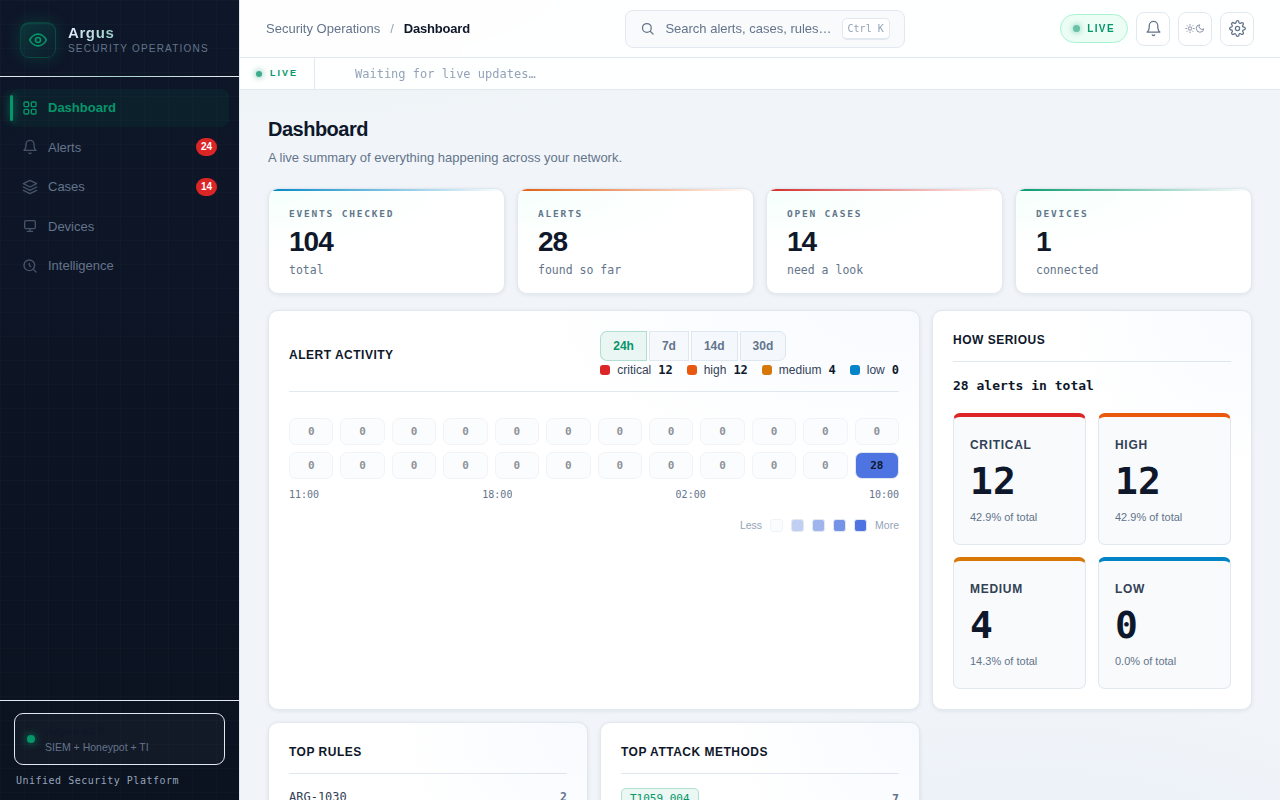
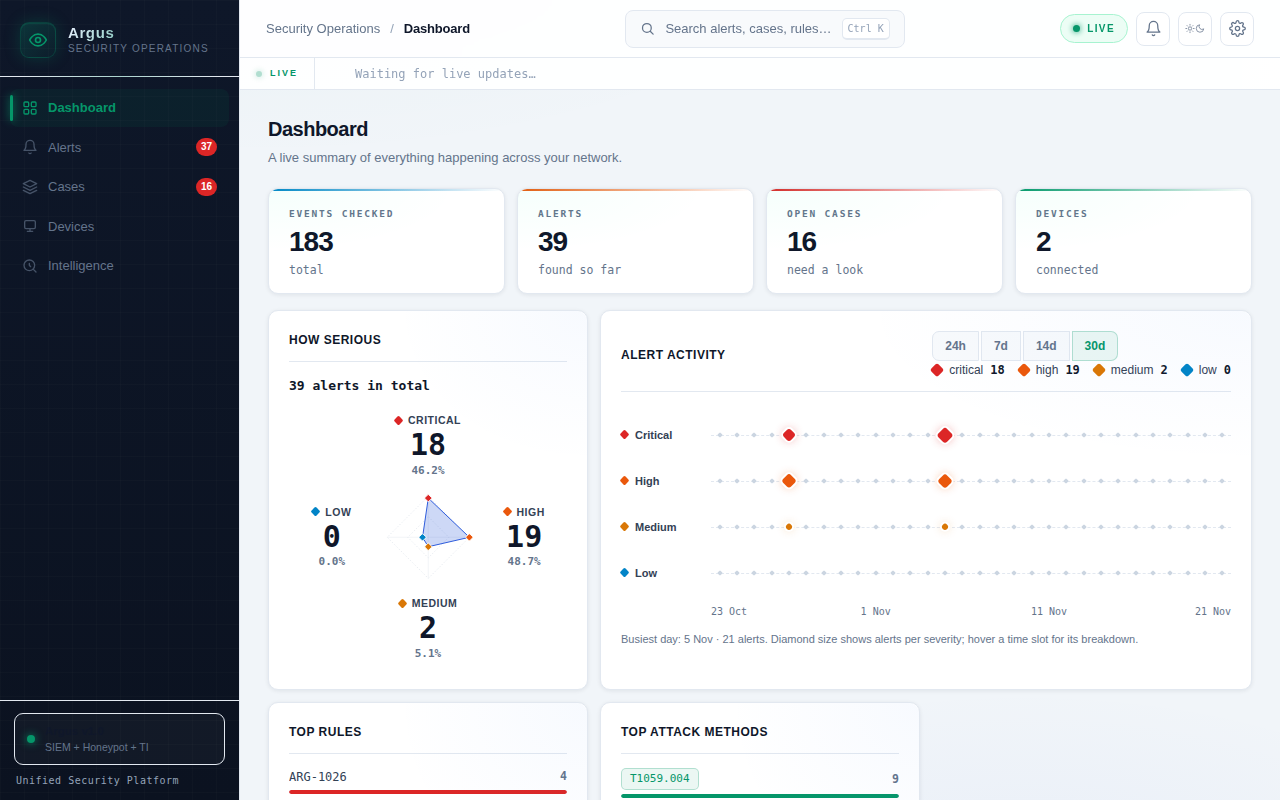
Dashboard round 3: severity kite + swimlane activity chart
How serious is now a four-axis kite (diamond radar, one severity per
corner, click a corner to filter Alerts). Alert activity is now four
severity swimlanes with diamond markers sized by count, 24h/7d/14d/30d
ranges, busiest-bucket note. Replaces the rejected donut/area, rows/
columns and tiles/heatmap designs. Verified live at 1280px, light and
dark themes, no overlap; 17/17 tests green. Fresh overview screenshot.

diff --git a/dashboard/app.js b/dashboard/app.js
@@ -270,26 +270,74 @@ async function ensureRules() {
 }
 
 /* ---------------- OVERVIEW ---------------- */
-function renderDonut(bySev) {
-  const total = SEV_ORDER.reduce((t, k) => t + (bySev[k] || 0), 0);
-  // 42x42 viewBox: circle r=15.9155 has circumference exactly 100,
-  // so dasharray percentages map 1:1 to arc fractions.
-  let offset = 25, circles = '';
-  for (const k of SEV_ORDER) {
-    const frac = total ? ((bySev[k] || 0) / total) * 100 : 0;
-    if (frac > 0.01) {
-      circles += `<circle cx="21" cy="21" r="15.9155" fill="none" stroke="${SEV_COLOR[k]}" ` +
-        `stroke-width="5" stroke-linecap="round" stroke-dasharray="${frac.toFixed(2)} 100" stroke-dashoffset="${offset.toFixed(2)}"/>`;
-    }
-    offset -= frac;
-  }
-  $('donutWrap').innerHTML =
-    `<svg viewBox="0 0 42 42" width="190" height="190" role="img" aria-label="${total} alerts">${circles}` +
-    `<text x="21" y="20.5" text-anchor="middle" class="donut-center" font-size="8.5">${total}</text>` +
-    `<text x="21" y="26.5" text-anchor="middle" class="donut-sub" font-size="3">ALERTS</text></svg>`;
-  $('donutLegend').innerHTML = SEV_ORDER.map((k) =>
-    `<span class="legend-item"><span class="legend-swatch" style="background:${SEV_COLOR[k]};color:${SEV_COLOR[k]}"></span>` +
-    `${k}<span class="legend-count">${bySev[k] || 0}</span></span>`).join('');
+/* Severity kite: four-axis diamond radar, one severity per corner. */
+function renderSeverityKite(bySev) {
+  const counts = {};
+  const total = SEV_ORDER.reduce((sum, key) => {
+    counts[key] = Math.max(0, Number(bySev[key]) || 0);
+    return sum + counts[key];
+  }, 0);
+  $('severityTotal').textContent = `${total} alerts in total`;
+
+  const R = 90;
+  const maxCount = Math.max(1, ...SEV_ORDER.map((k) => counts[k]));
+  const dir = { critical: [0, -1], high: [1, 0], medium: [0, 1], low: [-1, 0] };
+  const area = { critical: 'top', high: 'right', medium: 'bottom', low: 'left' };
+  const radius = (k) => R * (total ? 0.14 + 0.86 * (counts[k] / maxCount) : 0.14);
+  const pts = SEV_ORDER.map((k) => {
+    const r = radius(k);
+    return [dir[k][0] * r, dir[k][1] * r];
+  });
+  const poly = pts.map((p) => `${p[0].toFixed(1)},${p[1].toFixed(1)}`).join(' ');
+  const guide = (f) => {
+    const r = (R * f).toFixed(1);
+    return `0,-${r} ${r},0 0,${r} -${r},0`;
+  };
+  const vertices = SEV_ORDER.map((k, i) =>
+    `<g transform="translate(${pts[i][0].toFixed(1)} ${pts[i][1].toFixed(1)})">` +
+    `<rect class="kite-vertex kv-${k}" x="-6" y="-6" width="12" height="12" rx="2" fill="${SEV_COLOR[k]}"></rect></g>`
+  ).join('');
+
+  const svg = `
+    <svg class="kite-svg" viewBox="-108 -108 216 216" aria-hidden="true" focusable="false">
+      <polygon class="kite-guide" points="${guide(1)}"></polygon>
+      <polygon class="kite-guide" points="${guide(0.5)}"></polygon>
+      <path class="kite-axis" d="M0 -${R}V${R}M-${R} 0H${R}"></path>
+
+      <polygon class="kite-shape" points="${poly}"></polygon>
+      ${vertices}
+    </svg>`;
+
+  const buttons = SEV_ORDER.map((key) => {
+    const count = counts[key];
+    const pct = total ? (count / total) * 100 : 0;
+    const label = key.charAt(0).toUpperCase() + key.slice(1);
+    return `
+      <button type="button" class="sev-pt sev-pt-${area[key]}" data-severity="${key}"
+        style="--sev-c:${SEV_COLOR[key]}"
+        aria-label="${label}: ${count} alerts, ${pct.toFixed(1)} percent of total">
+        <span class="sev-pt-name"><span class="sev-pt-key"></span>${label}</span>
+        <span class="sev-pt-count">${count}</span>
+        <span class="sev-pt-pct">${pct.toFixed(1)}%</span>
+      </button>`;
+  }).join('');
+
+  const host = $('severityRows');
+  host.removeAttribute('data-active');
+  host.innerHTML = svg + buttons;
+  host.querySelectorAll('.sev-pt').forEach((btn) => {
+    const on = () => host.setAttribute('data-active', btn.dataset.severity);
+    const off = () => host.removeAttribute('data-active');
+    btn.addEventListener('pointerenter', on);
+    btn.addEventListener('pointerleave', off);
+    btn.addEventListener('focus', on);
+    btn.addEventListener('blur', off);
+    btn.addEventListener('click', () => {
+      $('alertSevFilter').value = btn.dataset.severity;
+      showView('alerts');
+    });
+
+  });
 }
 
 /* Animate stat numbers counting up from 0 on each overview load. */
@@ -326,7 +374,7 @@ async function loadOverview() {
   document.querySelectorAll('#statGrid .stat-card[data-goto]').forEach((el) =>
     el.addEventListener('click', () => showView(el.dataset.goto)));
 
-  renderDonut(kvList(stats.by_severity));
+  renderSeverityKite(kvList(stats.by_severity));
 
   const ruleEntries = Object.entries(kvList(stats.by_rule)).sort((a, b) => b[1] - a[1]).slice(0, 8);
   const maxR = (ruleEntries[0] && ruleEntries[0][1]) || 1;
@@ -360,9 +408,9 @@ async function loadOverview() {
 }
 LOADERS.overview = loadOverview;
 
-/* Stacked area chart: alert volume stacked by severity.
-   days=1 -> hourly buckets (24h); otherwise daily buckets. Uses theme-aware
-   .chart-* classes so the dark theme can recolor gridlines and ticks. */
+/* Swimlane activity chart: one lane per severity, one diamond per bucket,
+   diamond size = alerts of that severity in that bucket.
+   days=1 -> 24 hourly buckets; otherwise daily buckets. */
 function renderActivityChart(alerts, days) {
   days = days || 14;
   const hourly = days === 1;
@@ -370,16 +418,29 @@ function renderActivityChart(alerts, days) {
   const now = new Date();
   const starts = [];
   if (hourly) {
-    const h = new Date(now); h.setMinutes(0, 0, 0);
-    for (let i = N - 1; i >= 0; i--) { const d = new Date(h); d.setHours(d.getHours() - i); starts.push(d); }
+    const h = new Date(now);
+    h.setMinutes(0, 0, 0);
+    for (let i = N - 1; i >= 0; i--) {
+      const d = new Date(h);
+      d.setHours(d.getHours() - i);
+      starts.push(d);
+    }
   } else {
-    const d0 = new Date(now); d0.setHours(0, 0, 0, 0);
-    for (let i = N - 1; i >= 0; i--) { const d = new Date(d0); d.setDate(d.getDate() - i); starts.push(d); }
+    const d0 = new Date(now);
+    d0.setHours(0, 0, 0, 0);
+    for (let i = N - 1; i >= 0; i--) {
+      const d = new Date(d0);
+      d.setDate(d.getDate() - i);
+      starts.push(d);
+    }
   }
   const spanMs = hourly ? 3600000 : 86400000;
-  const buckets = starts.map(() => ({ critical: 0, high: 0, medium: 0, low: 0 }));
+  const buckets = starts.map(() => ({
+    critical: 0, high: 0, medium: 0, low: 0
+  }));
   for (const a of (alerts || [])) {
     const t = new Date(a.ts);
+
     if (isNaN(t) || !(a.severity in buckets[0])) continue;
     const idx = Math.floor((t - starts[0]) / spanMs);
     if (idx >= 0 && idx < N) buckets[idx][a.severity]++;
@@ -387,42 +448,69 @@ function renderActivityChart(alerts, days) {
   const totals = buckets.map((b) => b.critical + b.high + b.medium + b.low);
   const grand = totals.reduce((s, v) => s + v, 0);
   const sevTotals = {};
-  for (const s of SEV_ORDER) sevTotals[s] = buckets.reduce((t, b) => t + b[s], 0);
+  for (const s of SEV_ORDER) {
+    sevTotals[s] = buckets.reduce((t, b) => t + b[s], 0);
+  }
   $('activityLegend').innerHTML = SEV_ORDER.map((s) =>
     `<span class="legend-item"><span class="legend-swatch" style="background:${SEV_COLOR[s]}"></span>` +
-    `${s}<span class="legend-count">${sevTotals[s]}</span></span>`).join('');
-  if (!grand) { $('activityChart').innerHTML = `<div class="empty">No alerts in the last ${hourly ? '24 hours' : days + ' days'}.</div>`; return; }
+    `${s}<span class="legend-count">${sevTotals[s]}</span></span>`
+  ).join('');
+  if (!grand) {
+    $('activityChart').innerHTML =
+      `<div class="empty">No alerts in the last ${hourly ? '24 hours' : days + ' days'}.</div>`;
+    return;
+  }
 
-  const W = 760, H = 290, L = 38, R = 14, T = 12, B = 30;
-  const iw = W - L - R, ih = H - T - B;
-  const maxV = Math.max(4, ...totals);
-  const X = (i) => L + ((i + 0.5) / N) * iw;
-  const Y = (v) => T + ih - (v / maxV) * ih;
-  const MON = ['Jan', 'Feb', 'Mar', 'Apr', 'May', 'Jun', 'Jul', 'Aug', 'Sep', 'Oct', 'Nov', 'Dec'];
+  const MON = ['Jan','Feb','Mar','Apr','May','Jun','Jul','Aug','Sep','Oct','Nov','Dec'];
   const label = (d) => hourly
     ? `${String(d.getHours()).padStart(2, '0')}:00`
     : `${d.getDate()} ${MON[d.getMonth()]}`;
-  const every = hourly ? 4 : (N > 20 ? 5 : N > 10 ? 2 : 1);
-  let svg = `<svg viewBox="0 0 ${W} ${H}" role="img" aria-label="Alert volume by severity">`;
-  for (let i = 0; i <= 4; i++) {
-    const v = Math.round(maxV * i / 4), yy = Y(v).toFixed(1);
-    svg += `<line class="chart-gridline" x1="${L}" y1="${yy}" x2="${W - R}" y2="${yy}"/>` +
-      `<text class="chart-tick" x="${L - 8}" y="${+yy + 4}" text-anchor="end">${v}</text>`;
-  }
-  starts.forEach((d, i) => {
-    if (i % every === 0) svg += `<text class="chart-xlabel" x="${X(i).toFixed(1)}" y="${H - 8}" text-anchor="middle">${label(d)}</text>`;
-  });
-  let cum = new Array(N).fill(0);
-  for (const sev of ['low', 'medium', 'high', 'critical']) {
-    const nc = buckets.map((b, i) => cum[i] + b[sev]);
-    const top = nc.map((v, i) => `${X(i).toFixed(1)},${Y(v).toFixed(1)}`).join(' ');
-    const bot = cum.map((v, i) => `${X(i).toFixed(1)},${Y(v).toFixed(1)}`).reverse().join(' ');
-    svg += `<polygon points="${top} ${bot}" fill="${SEV_COLOR[sev]}" fill-opacity="0.78"><title>${sev}: ${sevTotals[sev]}</title></polygon>`;
-    cum = nc;
-  }
-  svg += `<path class="chart-total-line" d="${cum.map((v, i) => `${i ? 'L' : 'M'}${X(i).toFixed(1)},${Y(v).toFixed(1)}`).join(' ')}" fill="none"/>`;
-  svg += '</svg>';
-  $('activityChart').innerHTML = svg;
+  const maxCell = Math.max(1, ...buckets.map((b) => Math.max(b.critical, b.high, b.medium, b.low)));
+  const maxTotal = Math.max(...totals);
+  const peakIdx = totals.indexOf(maxTotal);
+
+  const hits = buckets.map((bucket, i) => {
+    const breakdown = SEV_ORDER.filter((s) => bucket[s] > 0).map((s) => `${bucket[s]} ${s}`).join(', ');
+    const tip = `${label(starts[i])}: ${totals[i]} alerts` + (breakdown ? ` (${breakdown})` : '');
+    return `<div class="swim-hit" style="left:${(i / N * 100).toFixed(3)}%;width:${(100 / N).toFixed(3)}%"
+
+      role="img" aria-label="${tip}" title="${tip}"></div>`;
+  }).join('');
+
+  const lanes = SEV_ORDER.map((s) => {
+    const marks = buckets.map((bucket, i) => {
+      const v = bucket[s];
+      const left = ((i + 0.5) / N * 100).toFixed(3);
+      if (!v) return `<div class="swim-empty" style="left:${left}%"></div>`;
+      const f = (0.35 + 0.65 * Math.sqrt(v / maxCell)).toFixed(3);
+      return `<div class="swim-mark" style="left:${left}%;--f:${f};--sev:${SEV_COLOR[s]}"></div>`;
+    }).join('');
+    return `<div class="swim-lane">${marks}</div>`;
+  }).join('');
+
+  const names = SEV_ORDER.map((s) =>
+    `<div class="swim-name"><span class="swim-key" style="background:${SEV_COLOR[s]}"></span>${s}</div>`
+  ).join('');
+
+  const labelIndices = [...new Set([0, Math.floor((N - 1) / 3), Math.floor((N - 1) * 2 / 3), N - 1])];
+  const ticks = labelIndices.map((i, k) => {
+    if (k === 0) return `<span class="swim-tick is-first">${label(starts[i])}</span>`;
+    if (k === labelIndices.length - 1) return `<span class="swim-tick is-last">${label(starts[i])}</span>`;
+    return `<span class="swim-tick" style="left:${((i + 0.5) / N * 100).toFixed(3)}%">${label(starts[i])}</span>`;
+  }).join('');
+
+  $('activityChart').innerHTML = `
+    <div class="swim">
+      <div class="swim-names">${names}</div>
+      <div class="swim-plot" style="--n:${N}">
+        <div class="swim-hits">${hits}</div>
+        ${lanes}
+      </div>
+
+      <div class="swim-axis">${ticks}</div>
+      <div class="swim-note">Busiest ${hourly ? 'hour' : 'day'}: ${label(starts[peakIdx])} &middot; ${maxTotal} alerts. Diamond size shows alerts per severity; hover a time slot for its breakdown.</div>
+    </div>
+  `;
 }
 
 /* ---------------- ALERTS ---------------- */
@@ -1026,7 +1114,7 @@ function paintSkeletons(view) {
     if (view === 'overview') {
       $('statGrid').innerHTML = sk('sk-stat', 4);
       $('activityChart').innerHTML = '<div class="skeleton sk-panel"></div>';
-      $('donutWrap').innerHTML = ''; $('donutLegend').innerHTML = '';
+      $('severityRows').innerHTML = ''; $('severityTotal').textContent = '0 alerts in total';
       $('topRules').innerHTML = sk('sk-row', 6); $('topMitre').innerHTML = sk('sk-row', 6);
     } else if (view === 'alerts') {
       $('alertsBody').innerHTML = skRows(8);

diff --git a/dashboard/styles.css b/dashboard/styles.css
@@ -376,6 +376,61 @@ body {
 .donut-center { font-family: var(--font); font-weight: 800; fill: var(--text); }
 .donut-sub { font-family: var(--font); font-weight: 700; fill: var(--faint); letter-spacing: 2px; }
 .donut-legend { display: flex; justify-content: center; gap: 14px; margin-top: 12px; flex-wrap: wrap; }
+
+.severity-total { font-family: var(--mono); font-size: 13px; font-weight: 700; color: var(--text); margin: 4px 0 10px; }
+
+/* How serious: a four-axis kite (radar diamond) with the four severities at its corners */
+.sev-kite { display: grid; grid-template-columns: minmax(0, 1fr) minmax(0, 1.15fr) minmax(0, 1fr); grid-template-areas: ". top ." "left kite right" ". bottom ."; align-items: center; justify-items: center; gap: 2px 4px; width: 100%; min-width: 0; }
+.kite-svg { grid-area: kite; display: block; width: 100%; max-width: 170px; height: auto; aspect-ratio: 1; overflow: visible; }
+.kite-guide { fill: none; stroke: var(--border-2); stroke-width: 1; stroke-dasharray: 3 4; }
+.kite-axis { fill: none; stroke: var(--border); stroke-width: 1; }
+.kite-shape { fill: color-mix(in srgb, var(--primary) 22%, transparent); stroke: var(--primary); stroke-width: 2; stroke-linejoin: round; }
+.kite-vertex { stroke: var(--surface); stroke-width: 2; transform-box: fill-box; transform-origin: center; transform: rotate(45deg); transition: transform .2s var(--ease); }
+.sev-kite[data-active="critical"] .kv-critical,
+.sev-kite[data-active="high"] .kv-high,
+.sev-kite[data-active="medium"] .kv-medium,
+.sev-kite[data-active="low"] .kv-low { transform: rotate(45deg) scale(1.5); }
+.sev-pt { display: flex; flex-direction: column; align-items: center; gap: 3px; min-width: 0; max-width: 100%; padding: 8px 6px; border: 1px solid transparent; border-radius: var(--radius-s); background: transparent; color: var(--text); font-family: var(--font); text-align: center; cursor: pointer; transition: background .2s var(--ease), border-color .2s var(--ease); }
+.sev-pt:hover { background: var(--surface-2); border-color: var(--border); }
+.sev-pt:focus-visible { outline: 2px solid var(--primary); outline-offset: 2px; }
+.sev-pt-top { grid-area: top; }
+.sev-pt-right { grid-area: right; }
+.sev-pt-bottom { grid-area: bottom; }
+.sev-pt-left { grid-area: left; }
+.sev-pt-name { display: flex; align-items: center; gap: 6px; color: var(--text-2); font-size: 10.5px; font-weight: 700; text-transform: uppercase; letter-spacing: .5px; white-space: nowrap; }
+.sev-pt-key { display: block; flex: none; width: 7px; height: 7px; border-radius: 1.5px; background: var(--sev-c); transform: rotate(45deg); }
+.sev-pt-count { display: block; font-family: var(--mono); font-size: clamp(22px, 2.4vw, 30px); font-weight: 800; line-height: 1.05; font-variant-numeric: tabular-nums; }
+.sev-pt-pct { display: block; color: var(--muted); font-family: var(--mono); font-size: 11px; font-weight: 600; }
+
+/* Alert activity: severity swimlanes with diamond markers */
+.chart-legend .legend-swatch { border-radius: 2px; transform: rotate(45deg); }
+#activityChart { width: 100%; min-width: 0; }
+.swim { display: grid; grid-template-columns: 78px minmax(0, 1fr); column-gap: 12px; width: 100%; min-width: 0; padding-top: 6px; }
+.swim-names { display: flex; flex-direction: column; }
+.swim-name { display: flex; align-items: center; gap: 7px; height: 46px; color: var(--text-2); font-size: 11px; font-weight: 600; text-transform: capitalize; white-space: nowrap; }
+.swim-key { display: block; flex: none; width: 7px; height: 7px; border-radius: 1.5px; transform: rotate(45deg); }
+
+.swim-plot { position: relative; min-width: 0; container-type: inline-size; }
+.swim-hits { position: absolute; inset: 0; }
+.swim-hit { position: absolute; top: 0; bottom: 0; border-radius: 4px; transition: background .15s var(--ease); }
+.swim-hit:hover { background: color-mix(in srgb, var(--primary) 12%, transparent); }
+.swim-lane { position: relative; height: 46px; pointer-events: none; }
+.swim-lane::before { content: ""; position: absolute; left: 0; right: 0; top: 50%; border-top: 1px dashed var(--border); }
+.swim-mark, .swim-empty { position: absolute; top: 50%; transform: translate(-50%, -50%) rotate(45deg); pointer-events: none; }
+.swim-mark { --sz: max(5px, calc(var(--f) * min(26px, 67cqw / var(--n)))); width: var(--sz); height: var(--sz); background: var(--sev); border-radius: 3px; box-shadow: 0 0 0 2px var(--surface), 0 0 10px color-mix(in srgb, var(--sev) 45%, transparent); }
+.swim-empty { width: 4px; height: 4px; border-radius: 1px; background: var(--border-2); }
+.swim-axis { grid-column: 2; position: relative; height: 16px; margin-top: 8px; }
+.swim-tick { position: absolute; top: 0; color: var(--muted); font-family: var(--mono); font-size: 10px; white-space: nowrap; transform: translateX(-50%); }
+.swim-tick.is-first { left: 0; transform: none; }
+.swim-tick.is-last { right: 0; left: auto; transform: none; }
+.swim-note { grid-column: 1 / -1; margin-top: 12px; color: var(--muted); font-size: 11px; line-height: 1.4; }
+@media (max-width: 600px) {
+  .swim { grid-template-columns: 62px minmax(0, 1fr); column-gap: 8px; }
+  .swim-name { font-size: 10px; gap: 5px; }
+  .swim-tick { font-size: 9px; }
+  .sev-pt-name { font-size: 9.5px; letter-spacing: .3px; }
+}
+
 .legend-item { display: inline-flex; align-items: center; gap: 7px; font-size: 12px; color: var(--text-2); font-weight: 500; text-transform: capitalize; }
 .legend-swatch { width: 10px; height: 10px; border-radius: 3px; }
 .legend-count { font-family: var(--mono); color: var(--text); font-weight: 700; }

diff --git a/dashboard/index.html b/dashboard/index.html
@@ -112,6 +112,13 @@
         </div>
         <div class="stat-grid" id="statGrid"></div>
         <div class="panel-grid overview-grid">
+          <div class="panel">
+            <div class="panel-head">
+              <div class="panel-title">How serious</div>
+            </div>
+            <div class="severity-total" id="severityTotal">0 alerts in total</div>
+            <div class="sev-kite" id="severityRows"></div>
+          </div>
           <div class="panel wide">
             <div class="panel-head chart-head">
               <div class="panel-title">Alert activity</div>
@@ -123,11 +130,6 @@
               </div>
             </div>
             <div id="activityChart"></div>
-          </div>
-          <div class="panel">
-            <div class="panel-head"><div class="panel-title">How serious</div></div>
-            <div class="donut-wrap" id="donutWrap"></div>
-            <div class="donut-legend" id="donutLegend"></div>
           </div>
           <div class="panel">
             <div class="panel-head"><div class="panel-title">Top rules</div></div>
